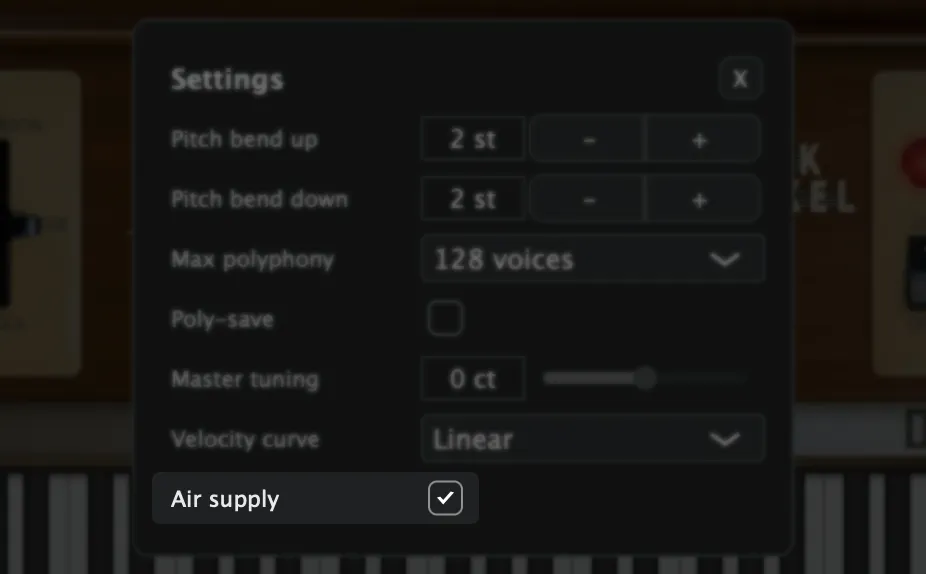
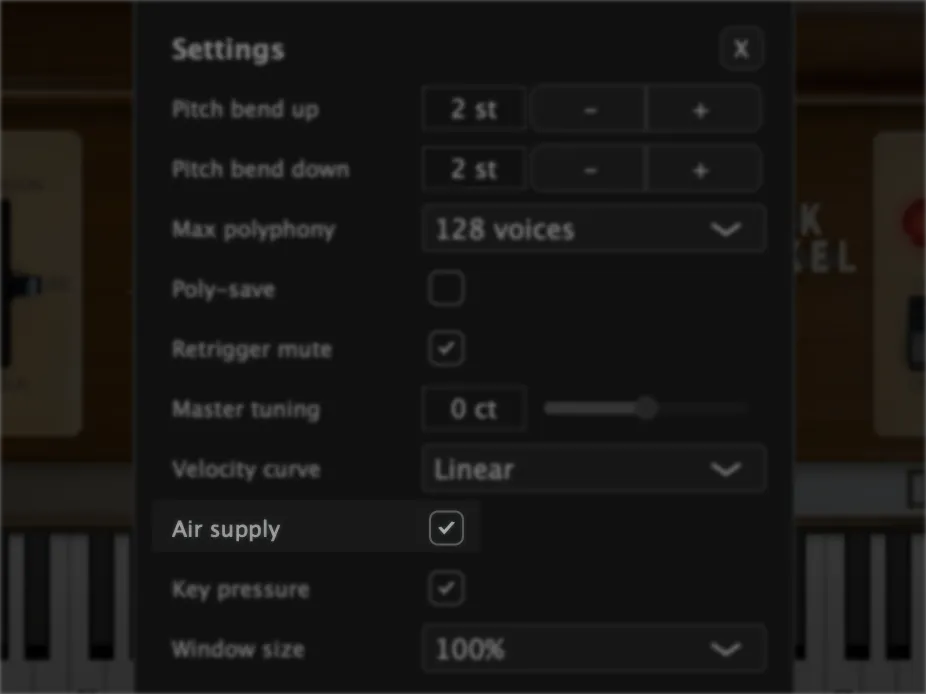
Publish the product page for the new version

diff --git a/docs/index.html b/docs/index.html
@@ -997,7 +997,7 @@ footer img {
         "width": 1200,
         "height": 662
       },
-      "dateModified": "2026-11-20"
+      "dateModified": "2026-11-25"
     },
     {
       "@type": "BreadcrumbList",
@@ -1035,11 +1035,11 @@ footer img {
         "@id": "https://www.dehlimusikk.no/"
       },
       "operatingSystem": "macOS, Windows, Linux",
-      "softwareVersion": "2.1.0",
+      "softwareVersion": "2.2.0",
       "softwareRequirements": "Requires a host that loads VST3 or AU for the plugin version, or the free Decent Sampler application for the sample library version. The standalone application needs neither.",
       "storageRequirements": "919.2 MB",
       "releaseNotes": "https://benjamindehli.github.io/ElektriskSalmesykkel/#release-notes",
-      "datePublished": "2026-08-01",
+      "datePublished": "2026-11-25",
       "image": "https://benjamindehli.github.io/ElektriskSalmesykkel/img/screenshots-elektrisk-salmesykkel.webp",
       "screenshot": [
         "https://benjamindehli.github.io/ElektriskSalmesykkel/img/screenshots-elektrisk-salmesykkel.webp",
@@ -1106,15 +1106,7 @@ footer img {
           "name": "Which formats does Elektrisk Salmesykkel come in?",
           "acceptedAnswer": {
             "@type": "Answer",
-            "text": "Elektrisk Salmesykkel is available as VST3, AU and Standalone for macOS, and as a Decent Sampler library for macOS, Windows and Linux."
-          }
-        },
-        {
-          "@type": "Question",
-          "name": "Does Elektrisk Salmesykkel run on Windows or Linux?",
-          "acceptedAnswer": {
-            "@type": "Answer",
-            "text": "The plugin version is released for macOS only. On Windows and Linux, the Decent Sampler version of Elektrisk Salmesykkel covers the same instrument."
+            "text": "Elektrisk Salmesykkel is available as VST3, AU and Standalone for macOS, Windows and Linux, and as a Decent Sampler library for macOS, Windows and Linux."
           }
         },
         {
@@ -1194,7 +1186,7 @@ footer img {
   <img src="img/icon.png" alt="" class="hero-icon">
   <h1>Elektrisk Salmesykkel</h1>
   <p class="tagline">A Yamaha L-20D electric harmonium / reed organ with some added features</p>
-  <div class="badges"><span class="badge badge-price">From $9.99</span><span class="badge">Version 2.1.0</span><span class="badge">2026-08-01</span><span class="badge">VST3</span><span class="badge">AU</span><span class="badge">Standalone</span><span class="badge">Decent Sampler</span></div>
+  <div class="badges"><span class="badge badge-price">From $9.99</span><span class="badge">Version 2.2.0</span><span class="badge">2026-11-25</span><span class="badge">VST3</span><span class="badge">AU</span><span class="badge">Standalone</span><span class="badge">Decent Sampler</span></div>
   <div class="cta">
     <a class="btn btn-primary" href="https://store.dehlimusikk.no/l/elektrisk-salmesykkel" target="_blank" rel="noopener">Get Elektrisk Salmesykkel</a>
     <a class="btn" href="https://github.com/benjamindehli/ElektriskSalmesykkel" target="_blank" rel="noopener">View on GitHub</a>
@@ -1212,21 +1204,24 @@ footer img {
     <ul><li><a href="#at-a-glance">At a glance</a></li><li><a href="#demo-video">Video</a></li><li><a href="#included-formats">Included formats</a></li><li><a href="#the-plugin-version">The plugin version</a></li><li><a href="#the-decent-sampler-version">The Decent Sampler version</a></li><li><a href="#technical-specification">Technical specification</a></li><li><a href="#instrument-presets">Instrument presets</a></li><li><a href="#user-interface">User Interface</a><ul><li><a href="#wind-and-reed-settings">Wind and reed settings</a></li><li><a href="#tremulant">Tremulant</a></li><li><a href="#noise">Noise</a></li><li><a href="#reverb">Reverb</a></li></ul></li><li><a href="#air-supply-plugin-version-only">Air supply (plugin version only)</a></li><li><a href="#key-pressure-plugin-version-only">Key pressure (plugin version only)</a></li><li><a href="#faq">Frequently asked questions</a></li><li><a href="#release-notes">Release notes</a></li><li><a href="#about-this-repository">About this repository</a></li></ul>
   </nav>
   <main id="content">
-<section id="at-a-glance"><h2><a class="anchor" href="#at-a-glance" aria-hidden="true" tabindex="-1">#</a>At a glance</h2><dl class="specs"><dt>Plugin</dt><dd>VST3, AU and Standalone for macOS</dd><dt>Decent Sampler</dt><dd>macOS, Windows and Linux</dd><dt>Version</dt><dd>2.1.0 (2026-08-01)</dd><dt>Price</dt><dd>Pay what you want, from $9.99</dd><dt>Sample rate</dt><dd>48 kHz</dd><dt>Bit depth</dt><dd>24 bit</dd><dt>Samples</dt><dd>549 files</dd><dt>Sample content</dt><dd>919.2 MB</dd></dl></section>
+<section id="at-a-glance"><h2><a class="anchor" href="#at-a-glance" aria-hidden="true" tabindex="-1">#</a>At a glance</h2><dl class="specs"><dt>Formats</dt><dd>VST3, AU, Standalone and Decent Sampler</dd><dt>Systems</dt><dd>macOS, Windows and Linux</dd><dt>Version</dt><dd>2.2.0 (2026-11-25)</dd><dt>Price</dt><dd>Pay what you want, from $9.99</dd><dt>Sample rate</dt><dd>48 kHz</dd><dt>Bit depth</dt><dd>24 bit</dd><dt>Samples</dt><dd>549 files</dd><dt>Sample content</dt><dd>919.2 MB</dd></dl></section>
 <section id="demo-video"><h2><a class="anchor" href="#demo-video" aria-hidden="true" tabindex="-1">#</a>Video</h2><p>A demonstration of the Elektrisk Salmesykkel library for Decent Sampler.</p><figure class="video-item"><div class="video" data-youtube="MWzlTejTHSw"><button class="video-play" type="button" aria-label="Play video: Electric harmonium sample plugin (Elektrisk Salmesykkel)"><img src="https://i.ytimg.com/vi/MWzlTejTHSw/hqdefault.jpg" alt="" loading="lazy" width="480" height="360"><span class="play" aria-hidden="true"></span></button></div><figcaption class="video-caption"><strong>Electric harmonium sample plugin (Elektrisk Salmesykkel)</strong> <span class="duration">2:34</span> <a href="video/">Video page</a> · <a href="https://www.youtube.com/watch?v=MWzlTejTHSw" target="_blank" rel="noopener">Watch on YouTube</a></figcaption></figure></section>
 <section id="included-formats"><h2><a class="anchor" href="#included-formats" aria-hidden="true" tabindex="-1">#</a>Included formats</h2><ul>
-<li>VST3 (macOS)</li>
+<li>VST3 (macOS, Windows and Linux)</li>
 <li>AU (macOS)</li>
-<li>Standalone application (macOS)</li>
+<li>Standalone application (macOS, Windows and Linux)</li>
 <li>Decent Sampler (macOS, Windows and Linux)</li>
 </ul>
-<p>The plugin version is currently released for macOS only. Windows and Linux versions are planned. Until then, the Decent Sampler version covers those platforms.</p></section>
-<section id="the-plugin-version"><h2><a class="anchor" href="#the-plugin-version" aria-hidden="true" tabindex="-1">#</a>The plugin version</h2><p>The plugin is a self-contained instrument, available as VST3, AU and Standalone. Samples, graphics and impulse responses are all embedded in the plugin itself, losslessly compressed, so there are no external files to install or locate. Only the samples for the selected preset are loaded into memory, and a fresh instance lets you choose which preset to load before anything is decoded.</p>
+<p>The Windows and Linux versions of the plugin are new and have not yet been tested on those systems.</p></section>
+<section id="the-plugin-version"><h2><a class="anchor" href="#the-plugin-version" aria-hidden="true" tabindex="-1">#</a>The plugin version</h2><p>The plugin is a self-contained instrument, available as VST3, AU and Standalone. The graphics are embedded in the plugin, and the samples and impulse responses come in one losslessly compressed file that the installer puts in place, so there is nothing to locate by hand. Only the samples for the selected preset are loaded into memory, and a fresh instance lets you choose which preset to load before anything is decoded.</p>
 <p>The plugin has all the controls and features from the Decent Sampler version, including MIDI learn, the master volume fader with output meter, value readouts for the knobs and full DAW automation. On top of that, the plugin version adds:</p>
 <ul>
 <li>Drift wheels next to the pitch and modulation wheels, adding a subtle random pitch and volume drift to each voice.</li>
 <li>A velocity curve setting in the settings menu.</li>
 <li>An emulation of the shared air supply. See the section "Air supply".</li>
+<li>A resizable window, from its own size to twice that.</li>
+<li>Undo and Redo.</li>
+<li>Key pressure for MPE controllers. See the section "Key pressure".</li>
 </ul></section>
 <section id="the-decent-sampler-version"><h2><a class="anchor" href="#the-decent-sampler-version" aria-hidden="true" tabindex="-1">#</a>The Decent Sampler version</h2><p>This version of Elektrisk Salmesykkel is an instrument preset / sample library for Decent Sampler. If you're new to Decent Sampler, I recommend checking out <a href="https://www.decentsamples.com/how-to-use-decent-sampler/" target="_blank" rel="noopener">this guide</a> first.</p></section>
 <section id="technical-specification"><h2><a class="anchor" href="#technical-specification" aria-hidden="true" tabindex="-1">#</a>Technical specification</h2><div class="table-wrap"><table><thead><tr><th style="text-align:right"></th><th style="text-align:right">Sample rate</th><th style="text-align:right">Bit depth</th><th>Channels</th><th style="text-align:right">Number of files</th><th style="text-align:right">File size</th></tr></thead><tbody><tr><td style="text-align:right"><strong>Samples (Reeds)</strong></td><td style="text-align:right">48 kHz</td><td style="text-align:right">24 bit</td><td>2 (stereo)</td><td style="text-align:right">183</td><td style="text-align:right">855.60 MB</td></tr><tr><td style="text-align:right"><strong>Samples (Noise)</strong></td><td style="text-align:right">48 kHz</td><td style="text-align:right">24 bit</td><td>2 (stereo)</td><td style="text-align:right">366</td><td style="text-align:right">63.60 MB</td></tr><tr><td style="text-align:right"><strong>Impulse responses</strong></td><td style="text-align:right">48 kHz</td><td style="text-align:right">24 bit</td><td>2 (stereo)</td><td style="text-align:right">2</td><td style="text-align:right">2.50 MB</td></tr></tbody></table></div></section>
@@ -1282,8 +1277,30 @@ footer img {
 </ul></section>
 <section id="air-supply-plugin-version-only"><h2><a class="anchor" href="#air-supply-plugin-version-only" aria-hidden="true" tabindex="-1">#</a>Air supply (plugin version only)</h2><figure class="shot"><a href="img/screenshots-air-supply.webp" target="_blank" rel="noopener"><img src="img/screenshots-air-supply.webp" alt="Toggle for air supply emulation in the settings menu" loading="lazy" width="926" height="694"></a><figcaption>Toggle for air supply emulation in the settings menu</figcaption></figure>
 <p>The original Yamaha L-20D has a motor driven fan that supplies air to all the reeds. When many notes are played at once, each reed gets a smaller share of the air. The plugin emulates this behavior: the more notes you hold, the lower the volume, the softer the top end and the slower the attack of each note. The air recovers quickly when notes are released, just like the real blower. The emulation only affects the reed samples, not the mechanical key noises, and it can be turned on or off in the settings menu.</p></section>
-<section id="faq"><h2><a class="anchor" href="#faq" aria-hidden="true" tabindex="-1">#</a>Frequently asked questions</h2><div class="faq"><details class="faq-item"><summary>What is Elektrisk Salmesykkel?</summary><div class="body"><p>Elektrisk Salmesykkel: a Yamaha L-20D electric harmonium with tremulant, noise and reverb, and an air supply that sags as more notes are held.</p></div></details><details class="faq-item"><summary>Which formats does Elektrisk Salmesykkel come in?</summary><div class="body"><p>Elektrisk Salmesykkel is available as VST3, AU and Standalone for macOS, and as a Decent Sampler library for macOS, Windows and Linux.</p></div></details><details class="faq-item"><summary>Does Elektrisk Salmesykkel run on Windows or Linux?</summary><div class="body"><p>The plugin version is released for macOS only. On Windows and Linux, the Decent Sampler version of Elektrisk Salmesykkel covers the same instrument.</p></div></details><details class="faq-item"><summary>Does Elektrisk Salmesykkel work in Logic Pro and Ableton Live?</summary><div class="body"><p>Yes. Elektrisk Salmesykkel is available as both VST3 and AU, so it loads in any macOS host that reads those formats, including Logic Pro, Ableton Live, Cubase, Reaper and Studio One.</p></div></details><details class="faq-item"><summary>Do I need Decent Sampler to use Elektrisk Salmesykkel?</summary><div class="body"><p>Not for the plugin version. It is a self-contained instrument with its samples embedded, so there are no external files to install or locate. The Decent Sampler version is a sample library, and that one needs the free Decent Sampler application.</p></div></details><details class="faq-item"><summary>What sample rate and bit depth is Elektrisk Salmesykkel recorded at?</summary><div class="body"><p>The samples are 48 kHz, 24 bit.</p></div></details><details class="faq-item"><summary>How many samples does Elektrisk Salmesykkel contain?</summary><div class="body"><p>549 sample files, 919.2 MB of audio. Impulse responses for the effects are not counted in that figure.</p></div></details><details class="faq-item"><summary>How much does Elektrisk Salmesykkel cost?</summary><div class="body"><p>Elektrisk Salmesykkel is pay what you want, from $9.99, so the price shown is the minimum rather than a fixed one.</p></div></details><details class="faq-item"><summary>Where can I download Elektrisk Salmesykkel?</summary><div class="body"><p>From the Dehli Musikk store at <a href="https://store.dehlimusikk.no/l/elektrisk-salmesykkel" target="_blank" rel="noopener">https://store.dehlimusikk.no/l/elektrisk-salmesykkel</a>.</p></div></details><details class="faq-item"><summary>Is the source code for Elektrisk Salmesykkel available?</summary><div class="body"><p>Yes. The repository is public at <a href="https://github.com/benjamindehli/ElektriskSalmesykkel" target="_blank" rel="noopener">https://github.com/benjamindehli/ElektriskSalmesykkel</a> and licensed under GPL-3.0. The audio files are not in the repository, because the samples are a paid product.</p></div></details></div></section>
-<section id="release-notes"><h2><a class="anchor" href="#release-notes" aria-hidden="true" tabindex="-1">#</a>Release notes</h2><details class="release" open><summary>Version 2.1.0<span class="date">2026-08-01</span></summary><div class="body"><p>The changes in this release apply to the plugin version only. The DecentSampler version is unchanged.</p>
+<section id="key-pressure-plugin-version-only"><h2><a class="anchor" href="#key-pressure-plugin-version-only" aria-hidden="true" tabindex="-1">#</a>Key pressure (plugin version only)</h2><p>On the original instrument, each key opens a valve that lets air through to its reeds. A key that is only partly pressed lets less air through, so the reed sounds softer, darker and slightly flat, and below a certain point it does not sound at all. The plugin emulates this with an MPE controller: the pressure on each key sets how much air its reeds get. As on the real instrument, most of the change happens at the very start of the key press. The curves are based on recordings of the real instrument with a key pressed down very slowly.</p>
+<ul>
+<li>MPE controllers also get per-note pitch bend.</li>
+<li>Keyboards without MPE play every note with full air, exactly as the samples were recorded.</li>
+<li>The mechanical key noises are not affected.</li>
+<li>When air supply is on, a partly pressed key also draws less air from the blower.</li>
+<li>Key pressure can be turned on or off in the settings menu.</li>
+</ul></section>
+<section id="faq"><h2><a class="anchor" href="#faq" aria-hidden="true" tabindex="-1">#</a>Frequently asked questions</h2><div class="faq"><details class="faq-item"><summary>What is Elektrisk Salmesykkel?</summary><div class="body"><p>Elektrisk Salmesykkel: a Yamaha L-20D electric harmonium with tremulant, noise and reverb, and an air supply that sags as more notes are held.</p></div></details><details class="faq-item"><summary>Which formats does Elektrisk Salmesykkel come in?</summary><div class="body"><p>Elektrisk Salmesykkel is available as VST3, AU and Standalone for macOS, Windows and Linux, and as a Decent Sampler library for macOS, Windows and Linux.</p></div></details><details class="faq-item"><summary>Does Elektrisk Salmesykkel work in Logic Pro and Ableton Live?</summary><div class="body"><p>Yes. Elektrisk Salmesykkel is available as both VST3 and AU, so it loads in any macOS host that reads those formats, including Logic Pro, Ableton Live, Cubase, Reaper and Studio One.</p></div></details><details class="faq-item"><summary>Do I need Decent Sampler to use Elektrisk Salmesykkel?</summary><div class="body"><p>Not for the plugin version. It is a self-contained instrument with its samples embedded, so there are no external files to install or locate. The Decent Sampler version is a sample library, and that one needs the free Decent Sampler application.</p></div></details><details class="faq-item"><summary>What sample rate and bit depth is Elektrisk Salmesykkel recorded at?</summary><div class="body"><p>The samples are 48 kHz, 24 bit.</p></div></details><details class="faq-item"><summary>How many samples does Elektrisk Salmesykkel contain?</summary><div class="body"><p>549 sample files, 919.2 MB of audio. Impulse responses for the effects are not counted in that figure.</p></div></details><details class="faq-item"><summary>How much does Elektrisk Salmesykkel cost?</summary><div class="body"><p>Elektrisk Salmesykkel is pay what you want, from $9.99, so the price shown is the minimum rather than a fixed one.</p></div></details><details class="faq-item"><summary>Where can I download Elektrisk Salmesykkel?</summary><div class="body"><p>From the Dehli Musikk store at <a href="https://store.dehlimusikk.no/l/elektrisk-salmesykkel" target="_blank" rel="noopener">https://store.dehlimusikk.no/l/elektrisk-salmesykkel</a>.</p></div></details><details class="faq-item"><summary>Is the source code for Elektrisk Salmesykkel available?</summary><div class="body"><p>Yes. The repository is public at <a href="https://github.com/benjamindehli/ElektriskSalmesykkel" target="_blank" rel="noopener">https://github.com/benjamindehli/ElektriskSalmesykkel</a> and licensed under GPL-3.0. The audio files are not in the repository, because the samples are a paid product.</p></div></details></div></section>
+<section id="release-notes"><h2><a class="anchor" href="#release-notes" aria-hidden="true" tabindex="-1">#</a>Release notes</h2><details class="release" open><summary>Version 2.2.0<span class="date">2026-11-25</span></summary><div class="body"><p>The changes in this release apply to the plugin version only. The DecentSampler version is unchanged.</p>
+<ul>
+<li>The plugin is now also available for Windows and Linux, as VST3 and Standalone. These versions have not yet been tested on Windows and Linux computers.</li>
+<li>The window can be resized from its own size to twice that, by dragging its bottom-right corner or with the new window size setting in the settings menu. The size is saved with the project.</li>
+<li>Added Undo and Redo buttons. Knob moves, button presses and menu choices can be undone, also with Cmd+Z and Shift+Cmd+Z (Ctrl+Z and Shift+Ctrl+Z on Windows and Linux). Automation is not recorded as steps.</li>
+<li>Added key pressure for MPE controllers, with per-note pitch bend. See the section "Key pressure".</li>
+<li>Every control has a name for screen readers such as VoiceOver, and a screen reader goes through the window in a sensible order.</li>
+<li>The buttons and menus have names in the DAW's automation list instead of numbers. Existing automation of them keeps working.</li>
+<li>If the samples cannot be found, the plugin now says so and where they should be, instead of playing silence.</li>
+<li>The plugin tells the DAW how long its reverb and release tails last, so they are not cut off at the end of an export.</li>
+<li>An optional check for new versions. The first time the plugin opens, it asks whether it may check. It reads one small file from the product page and sends nothing about you. A new version is shown in the bottom strip.</li>
+<li>A damaged value in a saved project or preset is set back to its default instead of reaching the sound.</li>
+<li>Built on JUCE 9.0.6.</li>
+</ul></div></details>
+<details class="release"><summary>Version 2.1.0<span class="date">2026-08-01</span></summary><div class="body"><p>The changes in this release apply to the plugin version only. The DecentSampler version is unchanged.</p>
 <ul>
 <li>Added a translucent overlay graphic on top of the interface.</li>
 <li>Keys that are hovered or held on the keyboard are now shaded in a neutral way instead of turning yellow:<ul>

diff --git a/docs/video/index.html b/docs/video/index.html
@@ -961,7 +961,7 @@ footer img {
       "mainEntity": {
         "@id": "https://benjamindehli.github.io/ElektriskSalmesykkel/video/#video"
       },
-      "dateModified": "2026-11-20"
+      "dateModified": "2026-11-25"
     },
     {
       "@type": "BreadcrumbList",
@@ -1133,7 +1133,7 @@ footer img {
       allow="accelerometer; encrypted-media; picture-in-picture" allowfullscreen></iframe>
   </div>
   <p class="lead">A demonstration of the Elektrisk Salmesykkel library for Decent Sampler.</p>
-  <div class="badges"><span class="badge">2:34</span><span class="badge badge-price">From $9.99</span><span class="badge">Version 2.1.0</span><span class="badge">VST3</span><span class="badge">AU</span><span class="badge">Standalone</span><span class="badge">Decent Sampler</span></div>
+  <div class="badges"><span class="badge">2:34</span><span class="badge badge-price">From $9.99</span><span class="badge">Version 2.2.0</span><span class="badge">VST3</span><span class="badge">AU</span><span class="badge">Standalone</span><span class="badge">Decent Sampler</span></div>
   <section class="chapters" aria-labelledby="chapters-title"><h2 id="chapters-title">Chapters</h2><ol><li><a href="?t=0" data-start="0"><span class="at">0:00</span><span class="what">Closed chambers with low air supply</span></a></li><li><a href="?t=14" data-start="14"><span class="at">0:14</span><span class="what">Closed chambers with high air supply</span></a></li><li><a href="?t=28" data-start="28"><span class="at">0:28</span><span class="what">Viola reeds</span></a></li><li><a href="?t=41" data-start="41"><span class="at">0:41</span><span class="what">Diapason reeds</span></a></li><li><a href="?t=54" data-start="54"><span class="at">0:54</span><span class="what">Both chambers closed</span></a></li><li><a href="?t=61" data-start="61"><span class="at">1:01</span><span class="what">Gradually opening up the swell chambers</span></a></li><li><a href="?t=68" data-start="68"><span class="at">1:08</span><span class="what">Both chambers open</span></a></li><li><a href="?t=79" data-start="79"><span class="at">1:19</span><span class="what">With drums and synth bass</span></a></li><li><a href="?t=87" data-start="87"><span class="at">1:27</span><span class="what">Church reverb</span></a></li><li><a href="?t=94" data-start="94"><span class="at">1:34</span><span class="what">Mechanical noise</span></a></li><li><a href="?t=120" data-start="120"><span class="at">2:00</span><span class="what">Tremulant</span></a></li><li><a href="?t=140" data-start="140"><span class="at">2:20</span><span class="what">Product image</span></a></li></ol></section>
   <p>A Yamaha L-20D electric harmonium / reed organ with some added features</p>
   <div class="cta">
